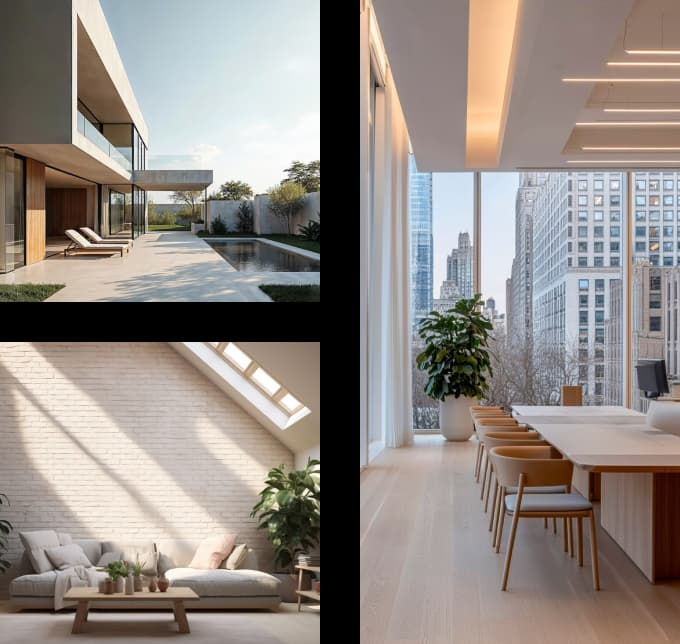
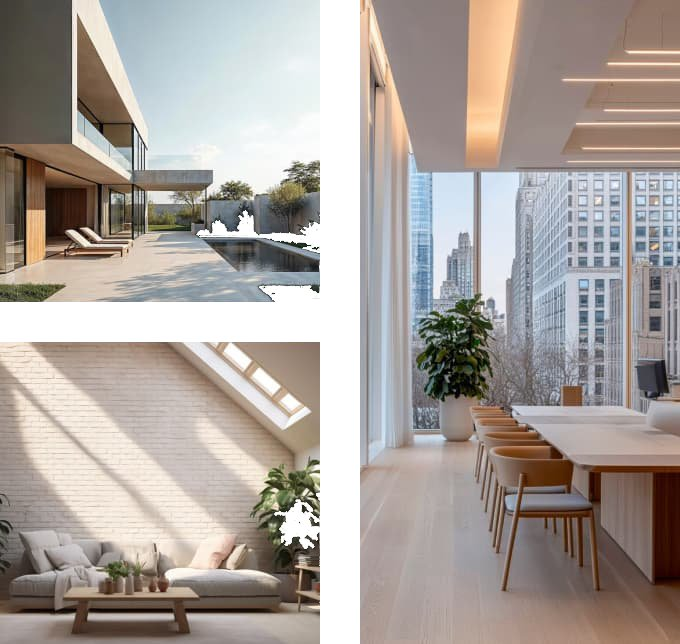
style: refresh FAQ images and featured property carousel UI

Changed region(s): [[0.0, 0.0, 0.5559, 1.0]]

diff --git a/src/components/Home/FeaturedProperty/index.tsx b/src/components/Home/FeaturedProperty/index.tsx
@@ -70,42 +70,38 @@ const FeaturedProperty: React.FC<FeaturedPropertyProps> = ({ properties }) => {
           </p>
           {/* Navigation for multiple properties */}
           {properties.length > 1 && (
-            <div className="flex mt-3">
-              <div className="flex gap-2">
-                {properties.map((_, index) => (
-                  <button
-                    key={index}
-                    onClick={() => setCurrentPropertyIndex(index)}
-                    className={`px-4 py-2 rounded-full text-sm font-semibold transition-colors duration-200 ${
-                      currentPropertyIndex === index
-                        ? "bg-primary text-white"
-                        : "bg-gray-200 text-gray-600 hover:bg-gray-300"
-                    }`}
-                  >
-                    Property {index + 1}
-                  </button>
-                ))}
-              </div>
+            <div className="flex items-center gap-2 mt-3 overflow-x-auto no-scrollbar py-1">
+              {properties.map((_, index) => (
+                <button
+                  key={index}
+                  onClick={() => {
+                    setCurrentPropertyIndex(index);
+                    setCurrent(1);
+                  }}
+                  className={`w-9 h-9 rounded-full text-xs font-bold transition-all duration-200 flex items-center justify-center shrink-0 ${
+                    currentPropertyIndex === index
+                      ? "bg-primary text-white shadow-sm scale-105"
+                      : "bg-gray-100 text-gray-600 hover:bg-gray-200"
+                  }`}
+                  aria-label={`Property ${index + 1}`}
+                >
+                  {index + 1}
+                </button>
+              ))}
             </div>
           )}
-          <h2 className="lg:text-52 text-40 font-medium text-dark dark:text-white line-clamp-2">
+          <h2 className="lg:text-40 text-30 font-semibold text-dark dark:text-white line-clamp-2 mt-2 leading-tight">
             {currentProperty.name}
           </h2>
 
-          <div className="flex items-center gap-2.5">
-            <Icon
-              icon="ph:map-pin"
-              width={28}
-              height={26}
-              className="text-dark/50 dark:text-white/50"
-            />
+          <div className="flex items-center gap-2.5 mt-1">
             <p className="text-dark/50 dark:text-white/50 text-base">
               {formatLocation(currentProperty.location)}
             </p>
           </div>
         </div>
         <div className="grid lg:grid-cols-2 gap-10">
-          <div className="relative">
+          <div className="relative overflow-hidden rounded-2xl">
             <Carousel
               setApi={setApi}
               opts={{
@@ -122,13 +118,13 @@ const FeaturedProperty: React.FC<FeaturedPropertyProps> = ({ properties }) => {
                         width={680}
                         height={530}
                         sizes="(max-width: 1024px) 100vw, 50vw"
-                        className="rounded-2xl w-none h-[350px] object-cover md:h-540"
+                        className="rounded-2xl w-full h-[350px] object-cover md:h-[540px]"
                       />
                     </CarouselItem>
                   ))
                 ) : (
                   <CarouselItem>
-                    <div className="rounded-2xl w-full h-[350px] md:h-540 bg-gradient-to-br from-gray-200 to-gray-300 flex items-center justify-center">
+                    <div className="rounded-2xl w-full h-[350px] md:h-[540px] bg-gradient-to-br from-gray-200 to-gray-300 flex items-center justify-center">
                       <Icon
                         icon="ph:house-simple-fill"
                         className="text-6xl text-gray-400"
@@ -139,52 +135,48 @@ const FeaturedProperty: React.FC<FeaturedPropertyProps> = ({ properties }) => {
               </CarouselContent>
             </Carousel>
             {count > 0 && (
-              <div className="absolute left-1/2 transform -translate-x-1/2 bg-dark/70 rounded-full py-2 px-4 bottom-6">
-                <p className="text-white text-sm font-medium">
+              <div className="absolute bottom-6 left-1/2 -translate-x-1/2 bg-black/70 backdrop-blur-md rounded-full py-1.5 px-4 z-10 pointer-events-none">
+                <p className="text-white text-xs font-semibold tracking-wide">
                   {current} / {count}
                 </p>
               </div>
             )}
           </div>
           <div className="flex flex-col gap-10">
-            <div className="md:block hidden ">
-              <p className=" text-dark/75 dark:text-white/75 text-base font-semibold gap-2">
+            <div className="md:block hidden">
+              <p className="text-dark/75 dark:text-white/75 text-base font-semibold gap-2 flex items-center">
                 <Icon
                   icon="ph:house-simple-fill"
-                  className="text-2xl text-primary "
+                  className="text-2xl text-primary"
                 />
                 Featured property
               </p>
               {/* Navigation for multiple properties */}
               {properties.length > 1 && (
-                <div className="flex mt-3">
-                  <div className="flex gap-2">
-                    {properties.map((_, index) => (
-                      <button
-                        key={index}
-                        onClick={() => setCurrentPropertyIndex(index)}
-                        className={`px-4 py-2 rounded-full text-sm font-semibold transition-colors duration-200 ${
-                          currentPropertyIndex === index
-                            ? "bg-primary text-white"
-                            : "bg-gray-200 text-gray-600 hover:bg-gray-300"
-                        }`}
-                      >
-                        Property {index + 1}
-                      </button>
-                    ))}
-                  </div>
+                <div className="flex items-center gap-2 mt-3 overflow-x-auto no-scrollbar py-1">
+                  {properties.map((_, index) => (
+                    <button
+                      key={index}
+                      onClick={() => {
+                        setCurrentPropertyIndex(index);
+                        setCurrent(1);
+                      }}
+                      className={`w-9 h-9 rounded-full text-xs font-bold transition-all duration-200 flex items-center justify-center shrink-0 ${
+                        currentPropertyIndex === index
+                          ? "bg-primary text-white shadow-sm scale-105"
+                          : "bg-gray-100 text-gray-600 hover:bg-gray-200"
+                      }`}
+                      aria-label={`Property ${index + 1}`}
+                    >
+                      {index + 1}
+                    </button>
+                  ))}
                 </div>
               )}
-              <h2 className="lg:text-52 text-40 font-medium text-dark dark:text-white line-clamp-2">
+              <h2 className="lg:text-40 text-30 font-semibold text-dark dark:text-white line-clamp-2 mt-2 leading-tight">
                 {currentProperty.name}
               </h2>
-              <div className="flex items-center gap-2.5">
-                <Icon
-                  icon="ph:map-pin"
-                  width={28}
-                  height={26}
-                  className="text-dark/50 dark:text-white/50"
-                />
+              <div className="flex items-center gap-2.5 mt-1">
                 <p className="text-dark/50 dark:text-white/50 text-base">
                   {formatLocation(currentProperty.location)}
                 </p>
